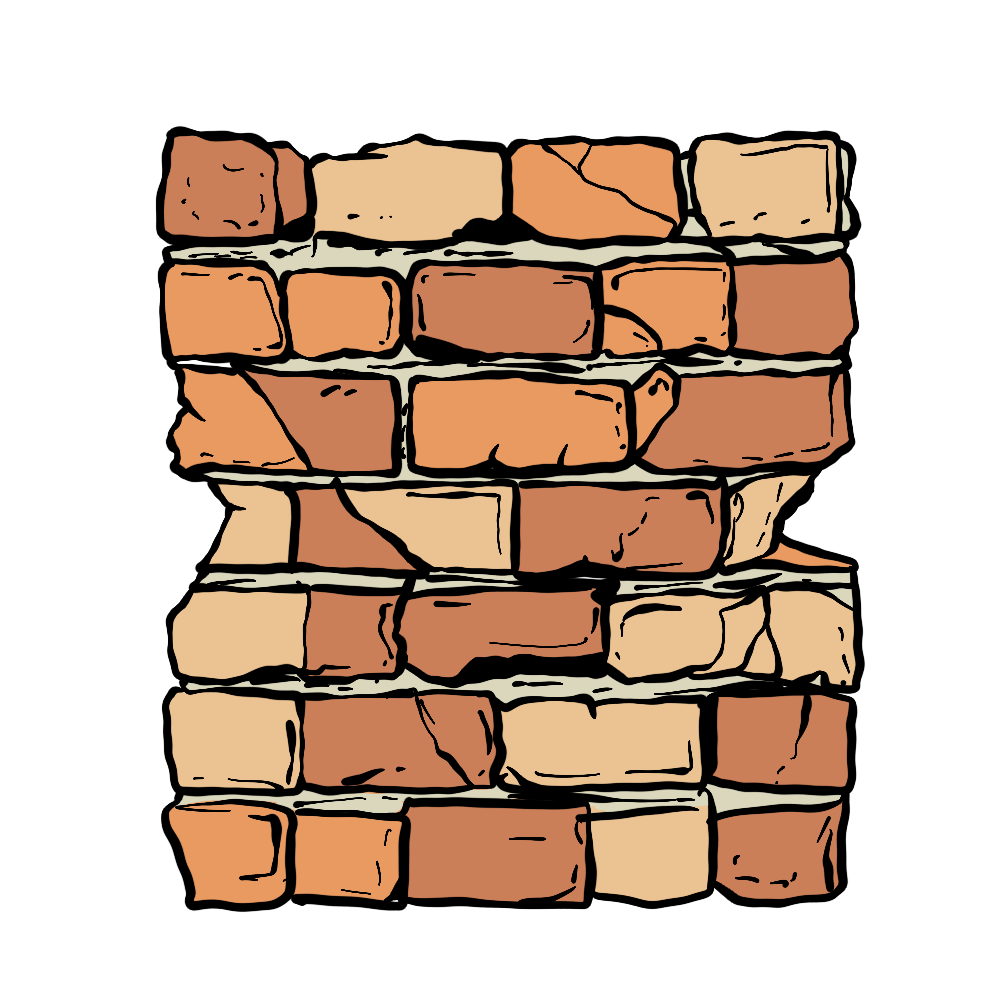
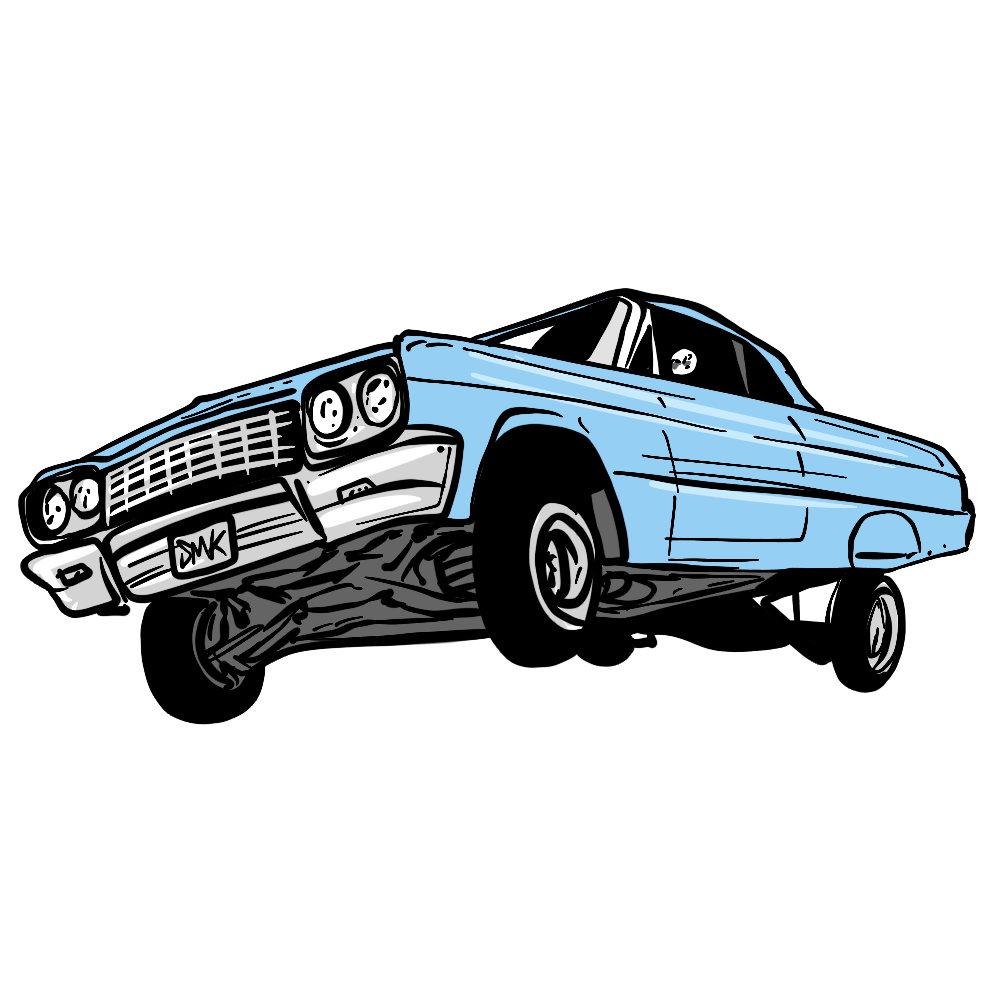
Front: the Multi is the brick chunk with its value over it; the Lowrider takes the brick's slot
The Multi tile now shows the brick-wall icon with its value painted over the
bricks in the heat colour, on the board and in the rules paytable; it comes
apart like every other picture when it blows out. The old Brick Wall symbol
(L10) is now the Lowrider car, same pays, renamed in the rules and DESIGN.md.

diff --git a/frontend/index.html b/frontend/index.html
@@ -422,6 +422,8 @@
   .prow .ptext { grid-column: 1 / -1; color: var(--ink); line-height: 1.55; }
   .ptile { width: 48px; height: 48px; object-fit: contain; border: 1px solid var(--line); background: var(--panel2); display: flex; flex-direction: column; align-items: center; justify-content: center; font-family: var(--disp); box-sizing: border-box; }
   .ptile.wild { color: var(--spray); }  .ptile.char { color: var(--teal); }
+  .ptile.multi { background: var(--panel2) url("assets/M.png") center / 86% no-repeat; color: var(--fs-green); text-shadow: 0 1px 0 #000, 0 0 4px #000; }
+  .ptile.multi small { color: var(--ink); text-shadow: 0 1px 0 #000, 0 0 3px #000; }
   .ptile span { font-size: 14px; }  .ptile small { font-size: 8px; letter-spacing: .14em; color: var(--ink-soft); }
   .pname { font-weight: 600; }  .pname small { display: block; color: var(--ink-soft); font-weight: 400; font-size: 10px; letter-spacing: .12em; }
   /* six cluster-size tiers per symbol, laid out as two rows of three so the columns line up */
@@ -561,10 +563,13 @@
   }
   /* The Multi. Until its art lands it is the sprayed box with its value set into it; the
      value is the whole point of the symbol, so it is the tile. */
-  .cell.booster { background: url("assets/ui_box.png") center / 100% 100% no-repeat; border-color: transparent; }
+  /* the Multi is the brick chunk with its value painted over the bricks */
+  .cell.booster { background: transparent; border-color: transparent; }
   .cell.booster .multface {
-    position: relative; z-index: 1; font-family: var(--num); font-size: 26px; line-height: 1;
-    color: var(--heat, var(--fs-green)); text-shadow: 0 2px 0 rgba(0,0,0,.75), 0 0 10px var(--heat, var(--fs-green));
+    position: absolute; inset: 0; z-index: 1; display: flex; align-items: center; justify-content: center;
+    font-family: var(--num); font-size: 30px; line-height: 1;
+    color: var(--heat, var(--fs-green));
+    text-shadow: 0 2px 0 rgba(0,0,0,.9), 0 0 4px rgba(0,0,0,.9), 0 0 12px var(--heat, var(--fs-green));
   }
   /* it blows out: the Multi itself, then the four cells it hits */
   .cell.boom { animation: multiboom calc(.55s * var(--tempo, 1)) cubic-bezier(.2,.9,.3,1.4); z-index: 2; }
@@ -1350,7 +1355,7 @@
 // a multiplier as the player should read it: 1.25, 5, 1000 - never 5.00
 const fmtMult = v => String(+(+v).toFixed(2));
 const SYM = {
-  M:  { label: "MULTI", sub: "",           cls: "booster" },
+  M:  { label: "MULTI", sub: "",           cls: "booster", img: "assets/M.png" },   // the brick chunk, its value over it
   BS: { label: "CREW",  sub: "BONUS",      cls: "scat",  img: "assets/BS.png" },
   ES: { label: "PHNTM", sub: "EXTREME",    cls: "escat", img: "assets/ES.png" },
   H1: { label: "CASH",  sub: "BAG",        cls: "high", img: "assets/H1.png" },
@@ -1369,7 +1374,7 @@ const SYM = {
   L7: { label: "HOODIE",sub: "SMUKIEZ",    cls: "low",  img: "assets/L7.png" },
   L8: { label: "WEED",  sub: "BAG",        cls: "low",  img: "assets/L8.png" },
   L9: { label: "TRAIN", sub: "FREIGHT",    cls: "low",  img: "assets/L9.png" },
-  L10:{ label: "BRICK", sub: "WALL",       cls: "low",  img: "assets/L10.png" },
+  L10:{ label: "LOW",   sub: "RIDER",      cls: "low",  img: "assets/L10.png" },
 };
 for (const def of Object.values(SYM)) {   // pre-warm icon cache
   if (def.img) { const i = new Image(); i.src = def.img; }
@@ -1460,6 +1465,11 @@ function fillCell(el, sym) {
   el.innerHTML = "";
   // the Multi shows its value as the tile itself - that number is what the player cares about
   if (def.cls === "booster") {
+    if (def.img) {   // the brick chunk; the value is painted over it
+      const im = document.createElement("img");
+      im.src = def.img; im.alt = def.label; im.draggable = false;
+      el.append(im);
+    }
     const m = document.createElement("div");
     m.className = "multface";
     m.textContent = sym.multiplier ? "x" + fmtMult(sym.multiplier) : def.label;

diff --git a/frontend/rules.js b/frontend/rules.js
@@ -36,7 +36,7 @@ const RULES = (() => {
     H1: "Bag of Cash", H2: "Cartoon Glock", H3: "Gold Chain", H4: "Fresh Kicks", H5: "Boombox",
     H6: "Skateboard", H7: "Limited Drop Box",
     L1: "Spray Can", L2: "Graffiti Markers", L3: "Smukiez Beanie", L4: "Custom Hangtag", L5: "Dice",
-    L6: "Smukiez Shirt", L7: "Hoodie", L8: "Bag of Weed", L9: "Freight Train", L10: "Brick Wall Chunk",
+    L6: "Smukiez Shirt", L7: "Hoodie", L8: "Bag of Weed", L9: "Freight Train", L10: "Lowrider",
   };
   const ORDER = ["H1", "H2", "H3", "H4", "H5", "H6", "H7",
                  "L1", "L2", "L3", "L4", "L5", "L6", "L7", "L8", "L9", "L10"];

diff --git a/DESIGN.md b/DESIGN.md
@@ -67,7 +67,7 @@ Pays are total-bet multiples per cluster, by cluster size, verbatim from `game_c
 | L4 | Hangtag | 0.4 | 1.2 | 2.4 | 6 | 16 | 48 |
 | L5, L6 | Dice, Shirt | 0.4 | 0.8 | 2 | 4.8 | 12 | 40 |
 | L7, L8 | Hoodie, Weed Bag | 0.4 | 0.8 | 1.6 | 4 | 10 | 32 |
-| L9, L10 | Freight Train, Brick Wall | 0.4 | 0.8 | 1.2 | 3.2 | 8 | 24 |
+| L9, L10 | Freight Train, Lowrider | 0.4 | 0.8 | 1.2 | 3.2 | 8 | 24 |
 
 Non-paying: **M** Multi (booster), **BS** Crew Leader (bonus scatter), **ES** The Phantom
 (extreme scatter). **There is no wild.** Every pay is a multiple of 0.4, and every cluster
